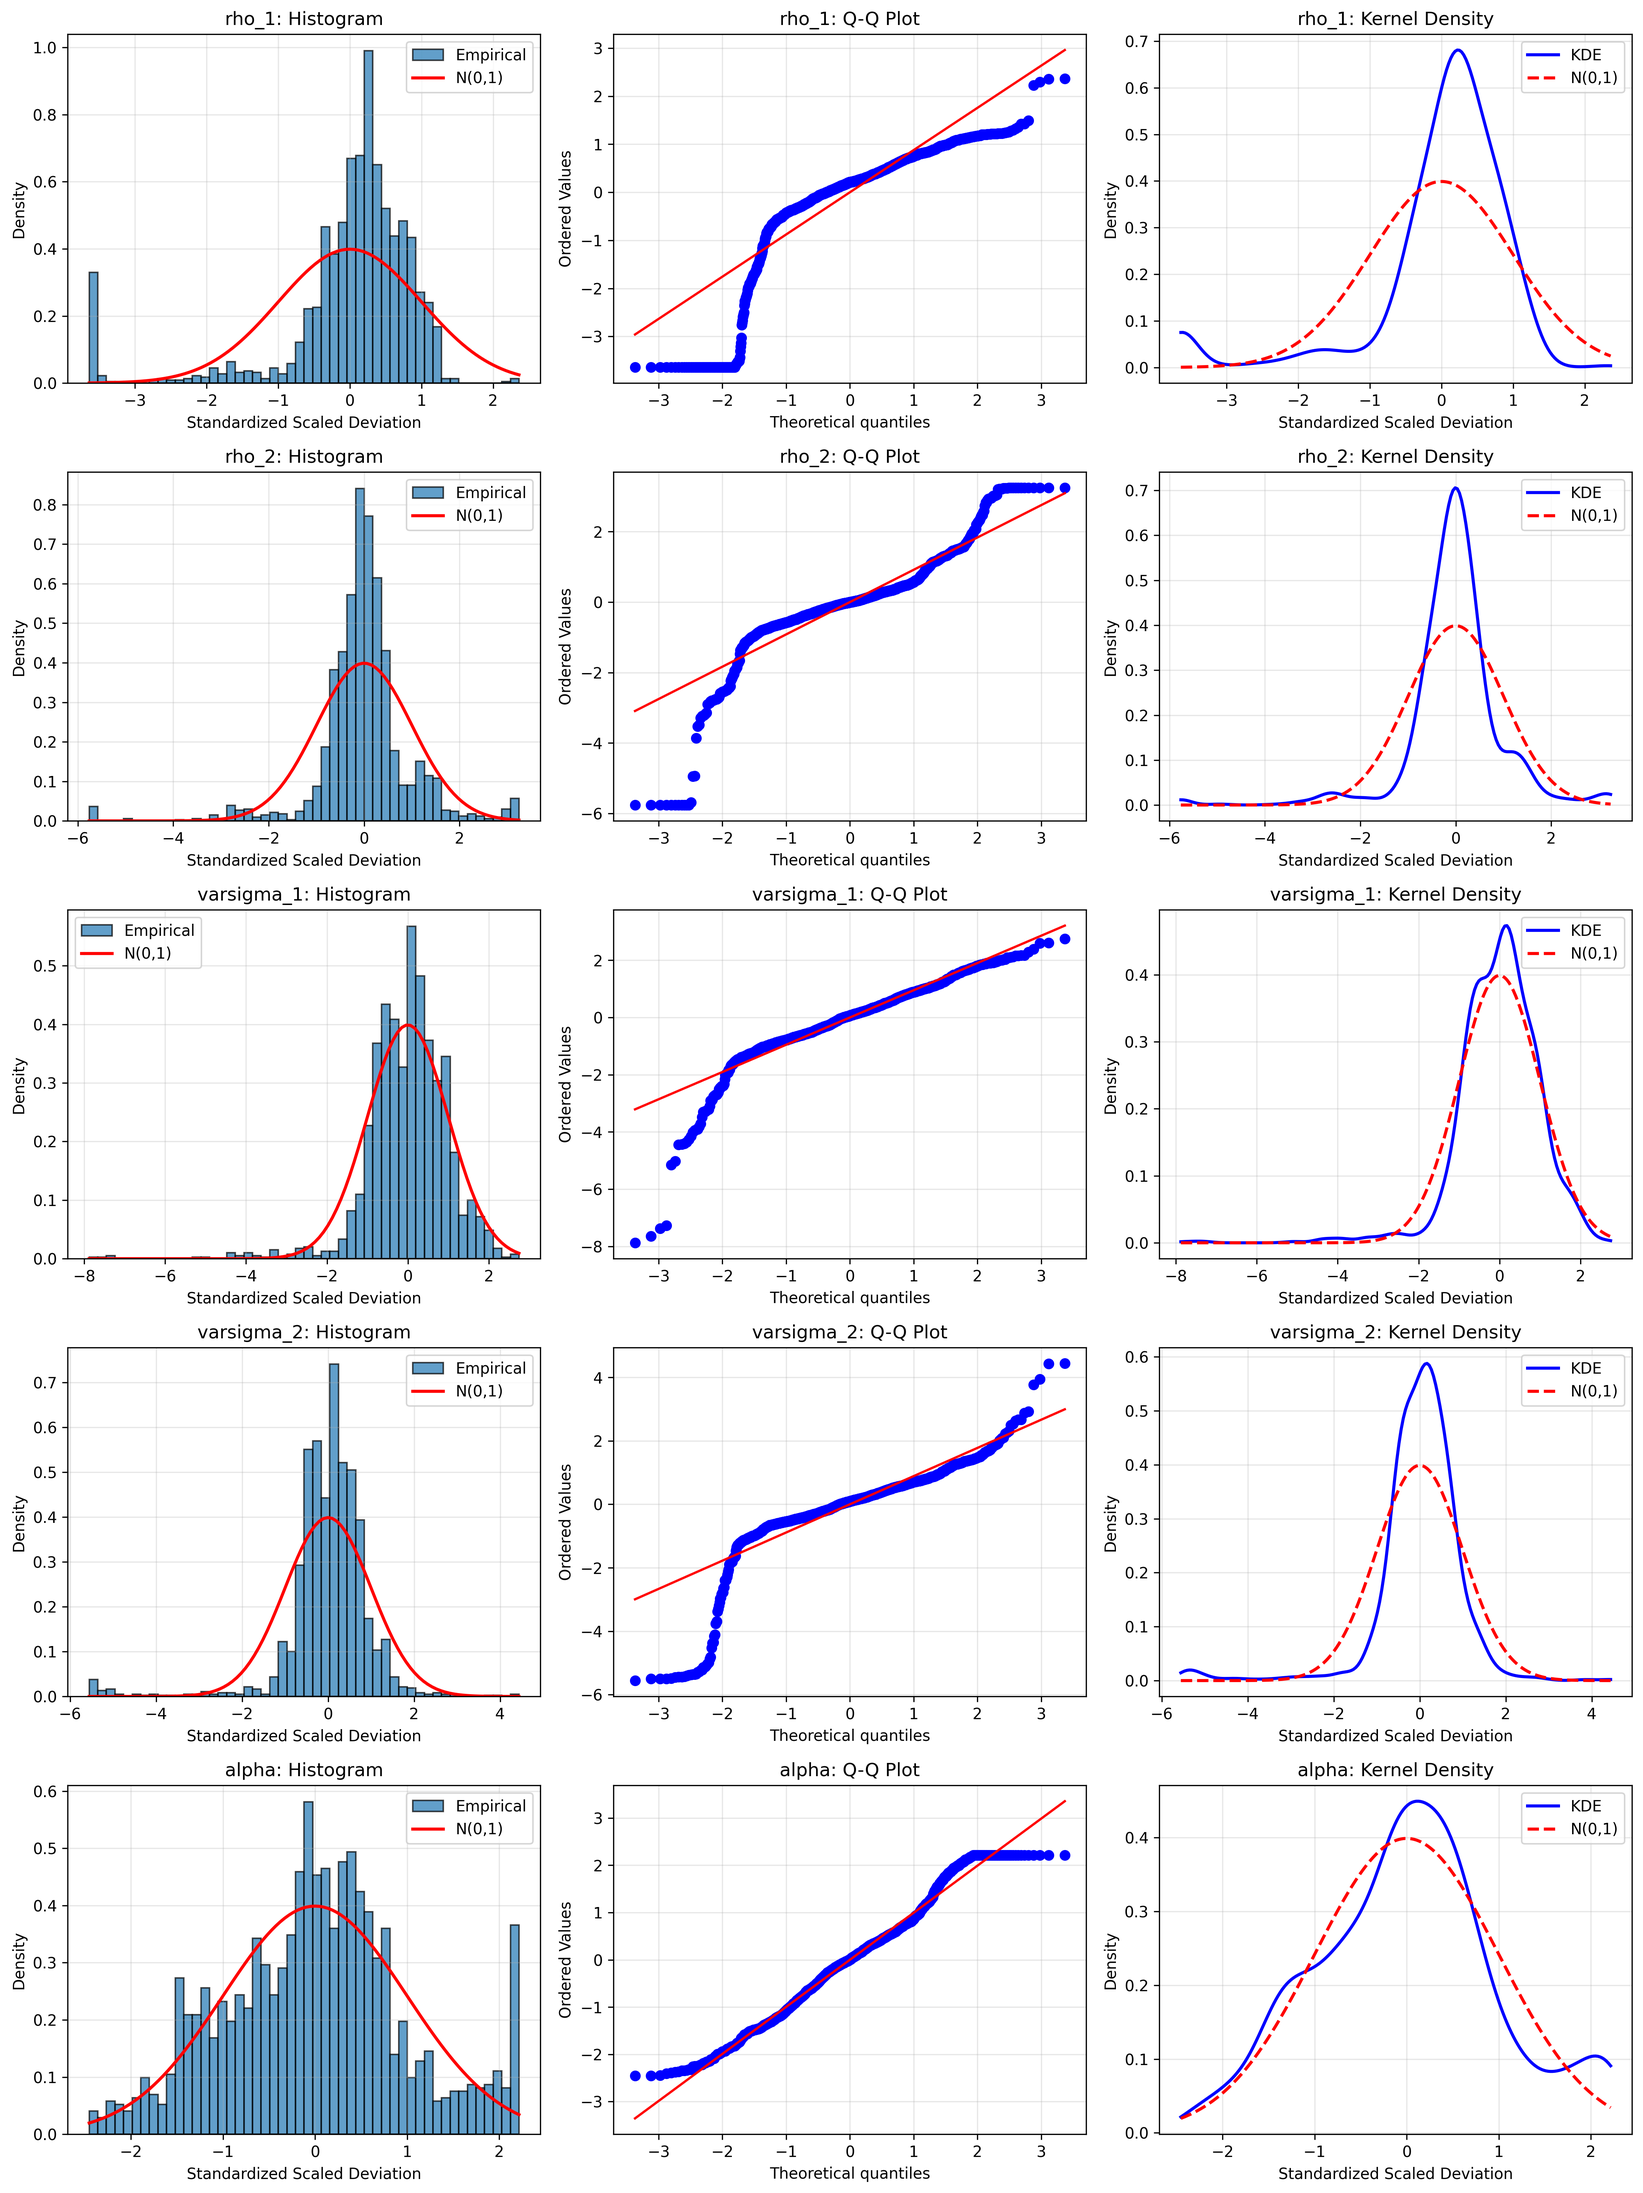
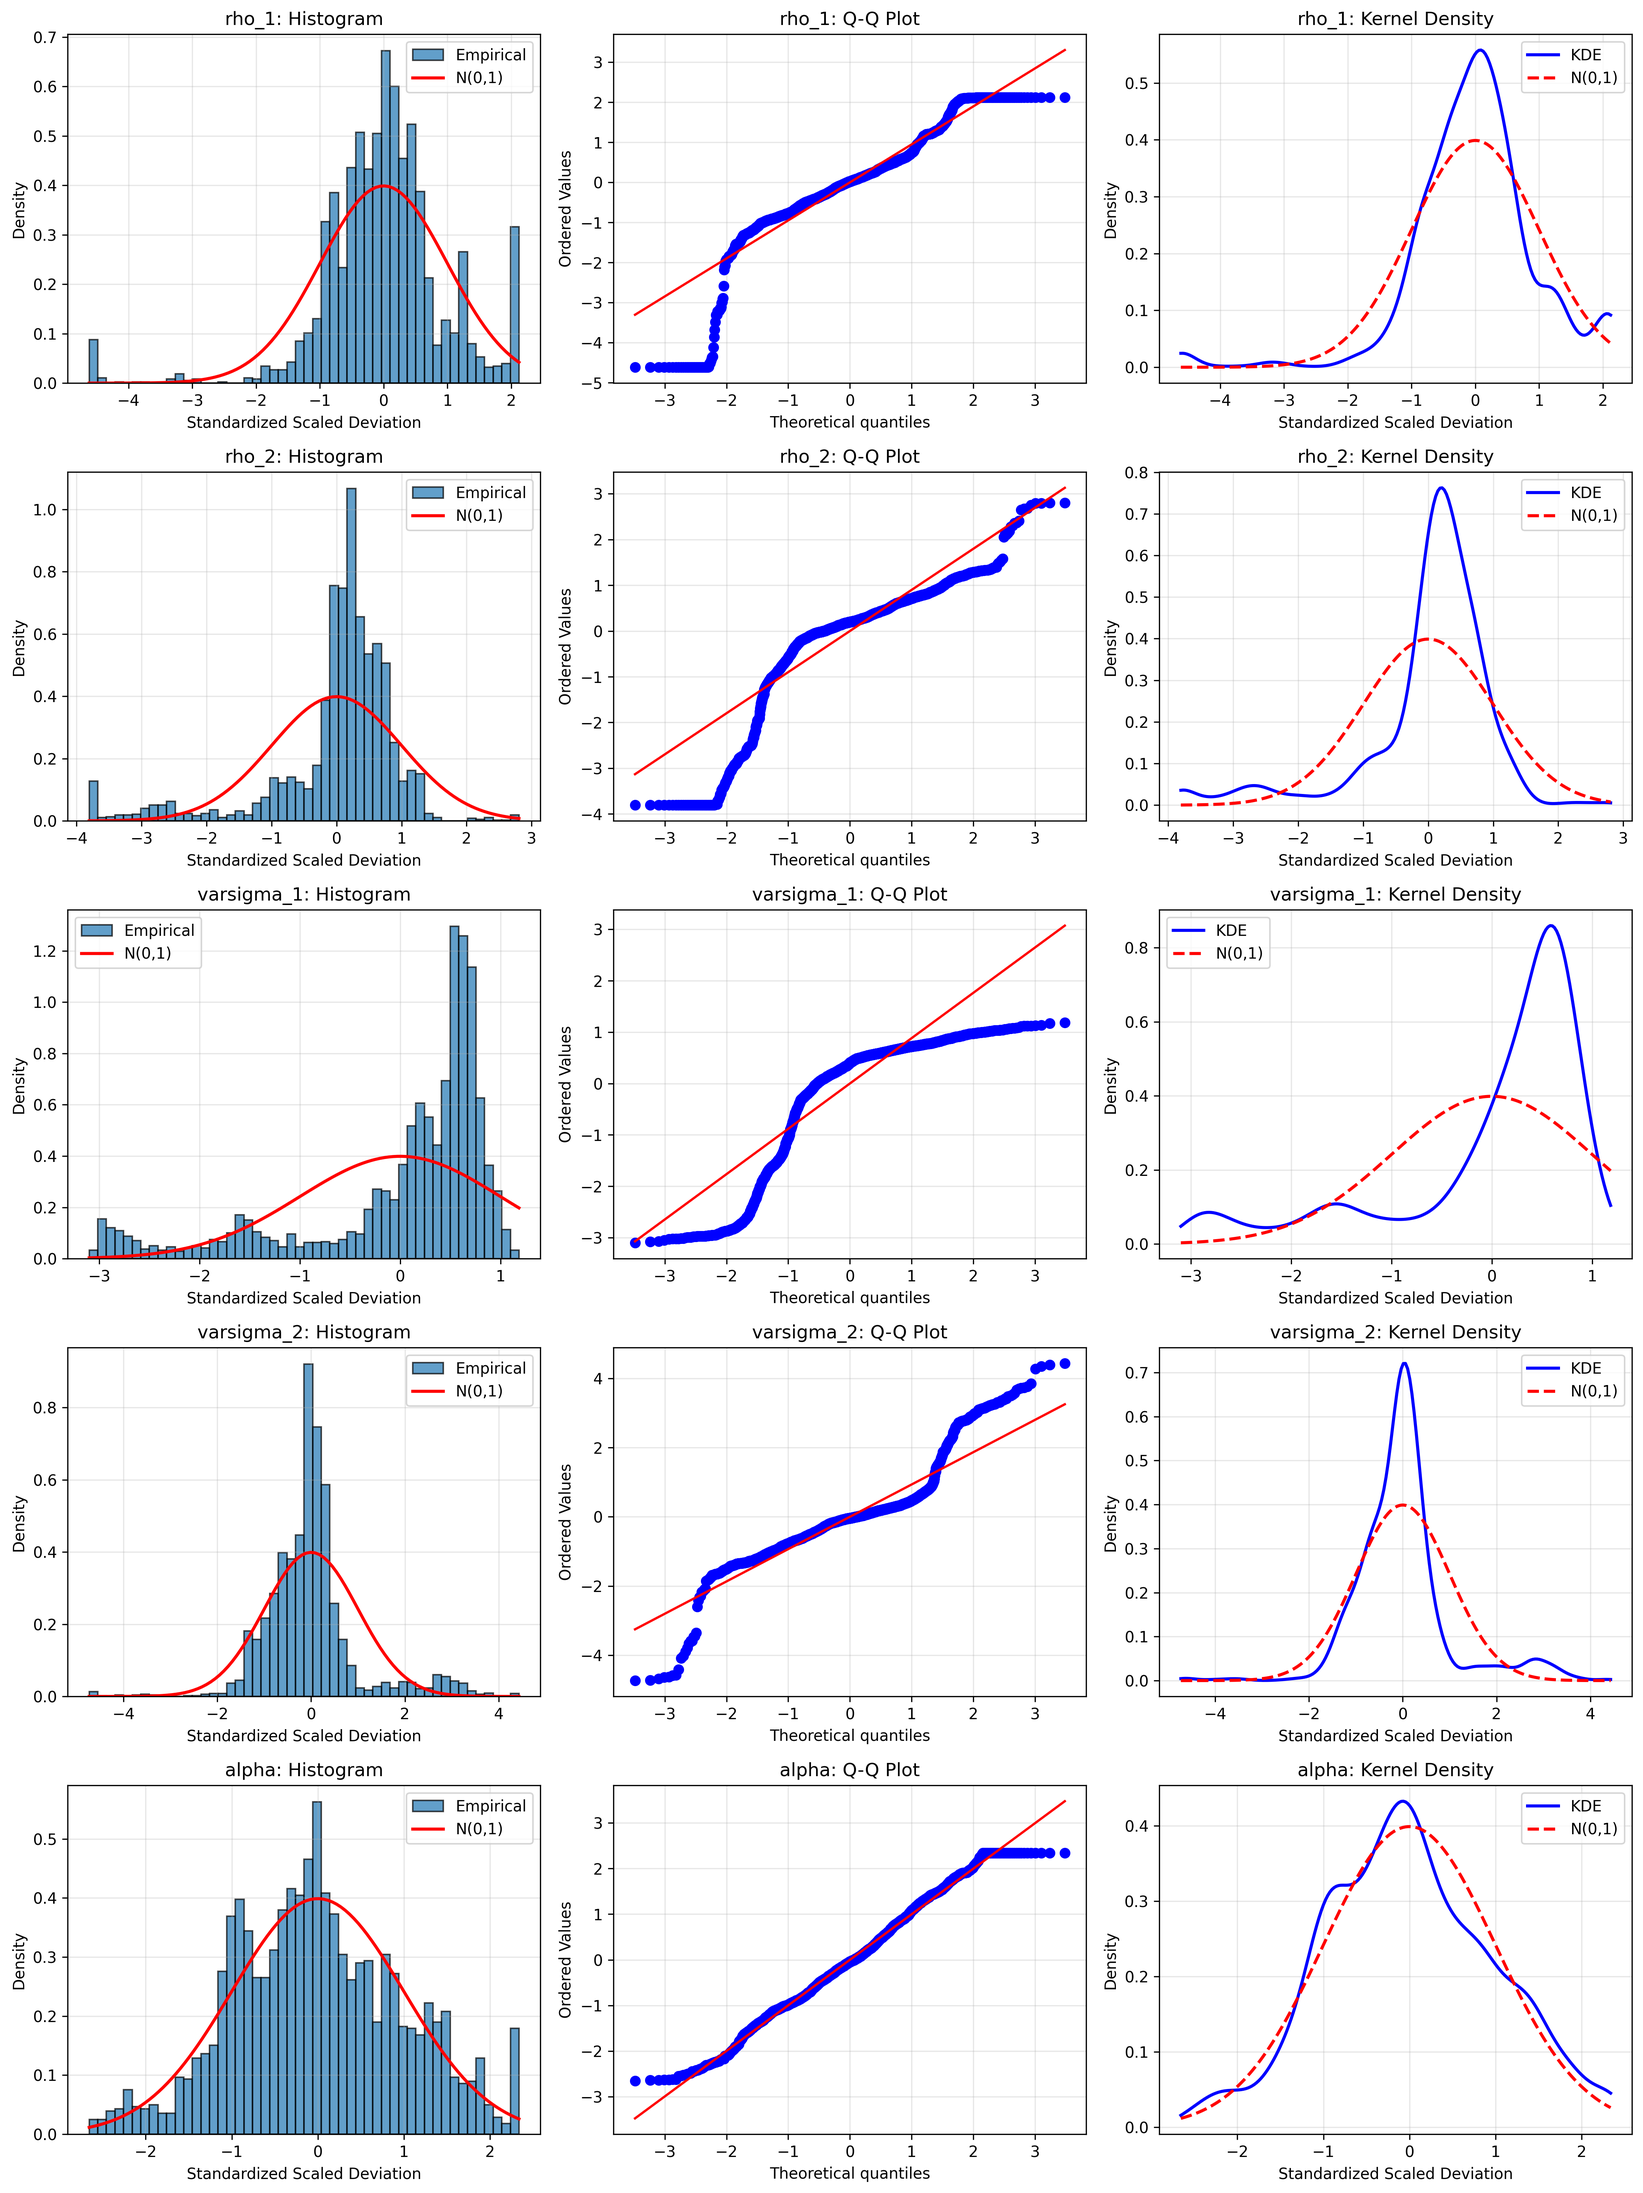
update

diff --git a/example_execution.py b/example_execution.py
@@ -50,7 +50,7 @@ analyzer = SubsamplingAnalysis(
 )
 
 # Generate time series
-n = 4000
+n = 3000
 print(f"\nSample size: n = {n}")
 Y = analyzer.generate_data(n=n, seed=42)
 print(f"Generated data: mean = {Y.mean():.4f}, std = {Y.std():.4f}")
@@ -153,7 +153,7 @@ if run_convergence == 'y':
         #   sample_sizes=[250, 500, 1000, 2000]
         #   M=500
         results_conv, summaries_conv = convergence_study(
-            sample_sizes=[250, 500, 1000, 2000, 4000],  # Reduced for demo
+            sample_sizes=[250, 500, 1000, 2000, 3000],  # Reduced for demo
             M=500,  # Reduced for demo (use 500 for publication)
             save_dir=output_dir,  # Use output_dir instead of '/outputs'
             n_jobs=-1
